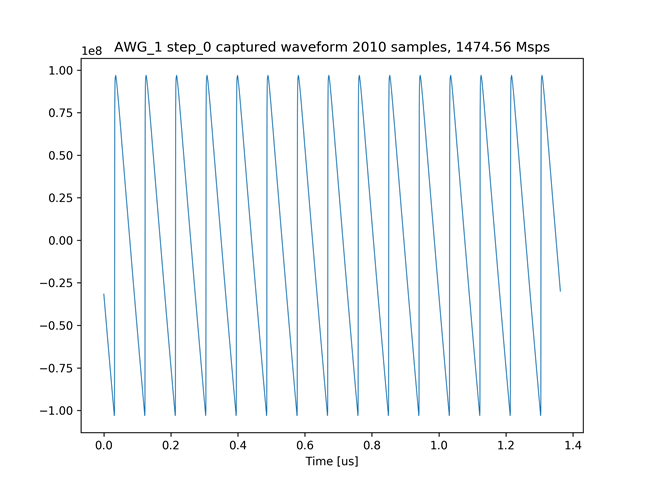
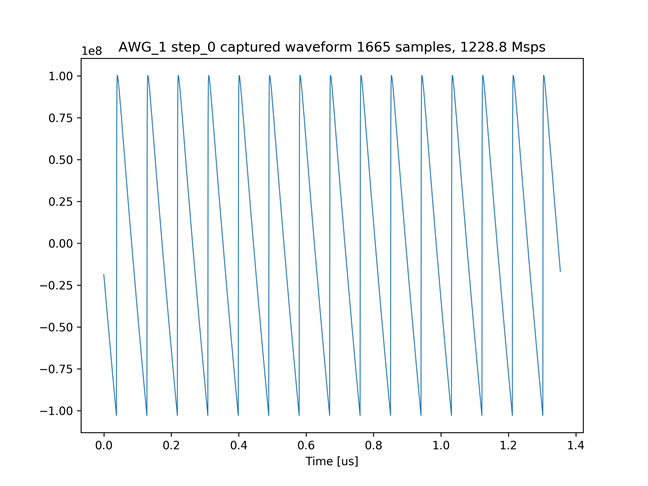
modify awg_windowed_capture.py

diff --git a/examples/awg_windowed_capture/awg_windowed_capture.py b/examples/awg_windowed_capture/awg_windowed_capture.py
@@ -34,9 +34,9 @@ LOG_LEVEL = logging.INFO
 # Constants
 BITSTREAM = 7  # AWG SA DRAM CAPTURE
 PLOT_DIR = "plot_awg_windowed_capture/"
-DAC_FREQ = 1474.56
-ADC_FREQ = 1474.56
-CAPTURE_DELAY = 320
+DAC_FREQ = 1228.8
+ADC_FREQ = 1228.8
+CAPTURE_DELAY = 500
 POST_BLANK = 2000
 
 BITSTREAM_LOAD_TIMEOUT = 10
@@ -51,7 +51,7 @@ if is_infinite_windows:
 else:
     NUM_WINDOWS = 10000
     NUM_CYCLES_IN_WINDOW = 15
-    NUM_CYCLES = NUM_WINDOWS * NUM_CYCLES_IN_WINDOW
+    NUM_CYCLES = NUM_WINDOWS * NUM_CYCLES_IN_WINDOW + 10
 
 # ADC or DAC
 ADC = 0
@@ -359,7 +359,7 @@ def set_capture_sequence(awg_sa_cmd, awg_id_to_wave_sequence):
     capture_config = awgsa.CaptureConfig()
 
     for awg_id, wave_sequence in awg_id_to_wave_sequence.items():
-        # DAC から出力する波形 10 サイクル分の期間をキャプチャ時間とする
+        # DAC から出力する波形の NUM_CYCLES_IN_WINDOW サイクル分の期間をキャプチャ時間とする
         num_dac_wave_samples = int(DAC_FREQ / wave_sequence.get_wave(0).get_frequency())
         capture = awgsa.AwgWindowedCapture(
             time = 1000 * NUM_CYCLES_IN_WINDOW * num_dac_wave_samples / ADC_FREQ,
@@ -401,6 +401,10 @@ def main():
 
         print("Configure Bitstream.")
         config_bitstream(rft.command, BITSTREAM)
+        shutdown_all_tiles(rft.command)
+        set_adc_sampling_rate(rft.command, ADC_FREQ)
+        set_dac_sampling_rate(rft.command, DAC_FREQ)
+        startup_all_tiles(rft.command)
         setup_dac(rft.command)
         setup_adc(rft.command)
         # 初期化    
@@ -435,7 +439,7 @@ def main():
         print("Output capture data.")
         for awg_id, wave_samples in awg_id_to_wave_samples.items():
             output_graphs((awg_id, 0, wave_samples))
-
+        
     print("Done.")
     return
 
